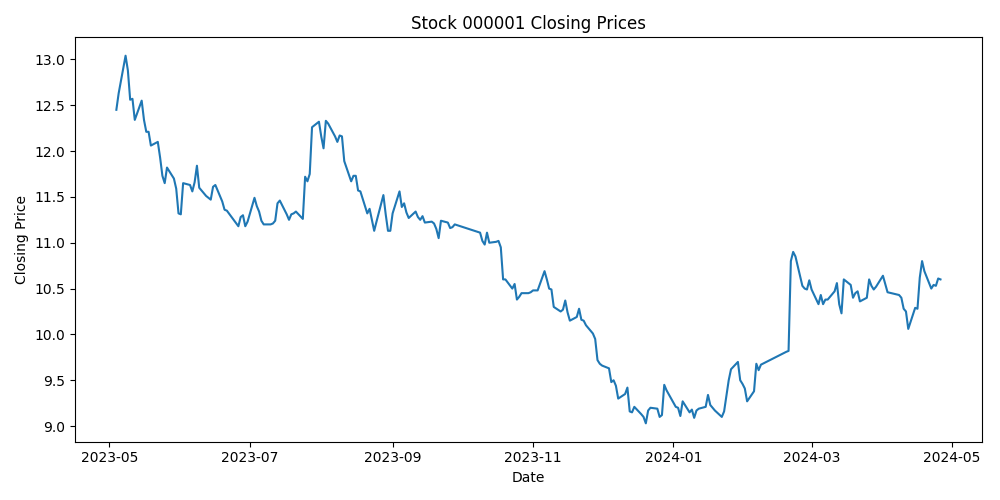
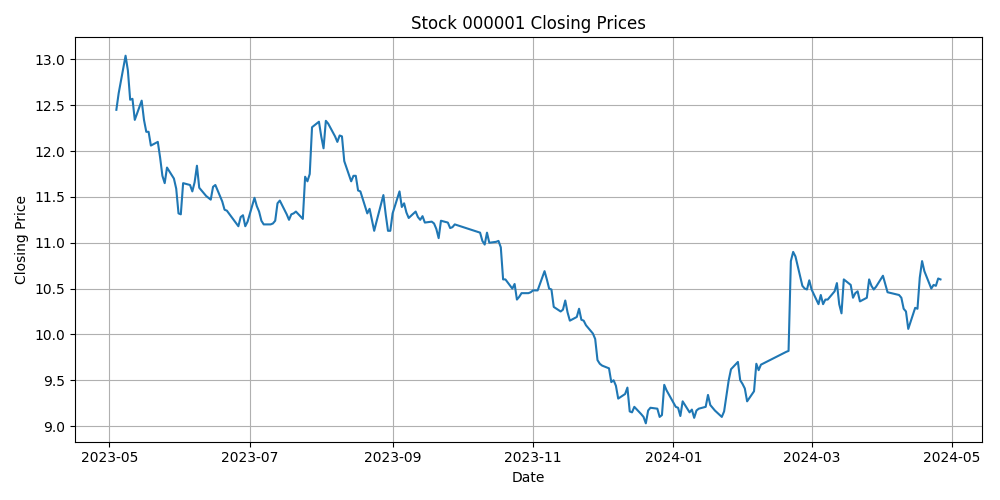
修复matplotlib在子线程中使用GUI渲染图形引发的问题

diff --git a/templates/stock_data.html b/templates/stock_data.html
@@ -13,6 +13,7 @@
     <!-- 如果有图表路径，则显示图表 -->
     {% if plot_filename %}
         <img src="{{ url_for('static', filename=plot_filename) }}" alt="Stock Chart" style="max-width:100%;">
+        <a href="/home/market-data">返回市场数据</a>
     {% endif %}
     {{ table|safe }}
     <a href="/home/market-data">返回市场数据</a>

diff --git a/app.py b/app.py
@@ -7,6 +7,8 @@ from flask import redirect
 import matplotlib.pyplot as plt
 import datetime
 
+from handle_stock_data import get_stock_data, save_plot
+
 app=Flask(__name__)
 # Set the secret key to some random bytes. Keep this really secret!
 #app.secret_key = b'_5#y2L"F4Q8z\n\xec]/'
@@ -35,36 +37,7 @@ app=Flask(__name__)
 #     session.pop('username', None)
 #     return redirect(url_for('index'))
 
-def save_plot(stock_data, stock_code):
-    try:
-        plt.figure(figsize=(10, 5))
-        plt.plot(stock_data['日期'], stock_data['收盘'])
-        plt.title(f'Stock {stock_code} Closing Prices')
-        plt.xlabel('Date')
-        plt.ylabel('Closing Price')
-        plt.xticks(rotation=0)
-        plt.tight_layout()
-        # 使用绝对路径来避免目录问题
-        base_dir = os.path.dirname(os.path.abspath(__file__))
-        plot_filename = f'{stock_code}.png'
-        plot_path = os.path.join(base_dir, 'static', plot_filename)
-        
-        plt.savefig(plot_path)
-        plt.close()
-        print(f'Plot saved to {plot_path}')
-        return plot_filename, True 
-    except Exception as e:
-        return str(e), False 
 
-
-def get_stock_data(stock_code):
-    try:
-        end_date = datetime.datetime.today().strftime('%Y%m%d')  
-        start_date = (datetime.datetime.today() - datetime.timedelta(days=365)).strftime('%Y%m%d') 
-        stock_data = ak.stock_zh_a_hist(symbol=stock_code, period="daily", start_date=start_date, end_date=end_date, adjust="qfq")
-        return stock_data
-    except Exception as e:
-        return f"获取数据失败: {str(e)}"
 
 @app.route('/home')
 def home():

diff --git a/handle_stock_data.py b/handle_stock_data.py
@@ -1,0 +1,37 @@
+import matplotlib.pyplot as plt
+import matplotlib
+matplotlib.use('Agg')# don't delete it!!!
+import datetime
+import akshare as ak
+import os
+def save_plot(stock_data, stock_code):
+    try:
+        plt.figure(figsize=(10, 5))
+        plt.plot(stock_data['日期'], stock_data['收盘'])
+        plt.title(f'Stock {stock_code} Closing Prices')
+        plt.xlabel('Date')
+        plt.ylabel('Closing Price')
+        plt.xticks(rotation=0)
+        plt.tight_layout()
+        plt.grid()
+        # 使用绝对路径来避免目录问题
+        base_dir = os.path.dirname(os.path.abspath(__file__))
+        plot_filename = f'{stock_code}.png'
+        plot_path = os.path.join(base_dir, 'static', plot_filename)
+        
+        plt.savefig(plot_path)
+        plt.close()
+        print(f'Plot saved to {plot_path}')
+        return plot_filename, True 
+    except Exception as e:
+        return str(e), False 
+
+
+def get_stock_data(stock_code):
+    try:
+        end_date = datetime.datetime.today().strftime('%Y%m%d')  
+        start_date = (datetime.datetime.today() - datetime.timedelta(days=365)).strftime('%Y%m%d') 
+        stock_data = ak.stock_zh_a_hist(symbol=stock_code, period="daily", start_date=start_date, end_date=end_date, adjust="qfq")
+        return stock_data
+    except Exception as e:
+        return f"获取数据失败: {str(e)}"
